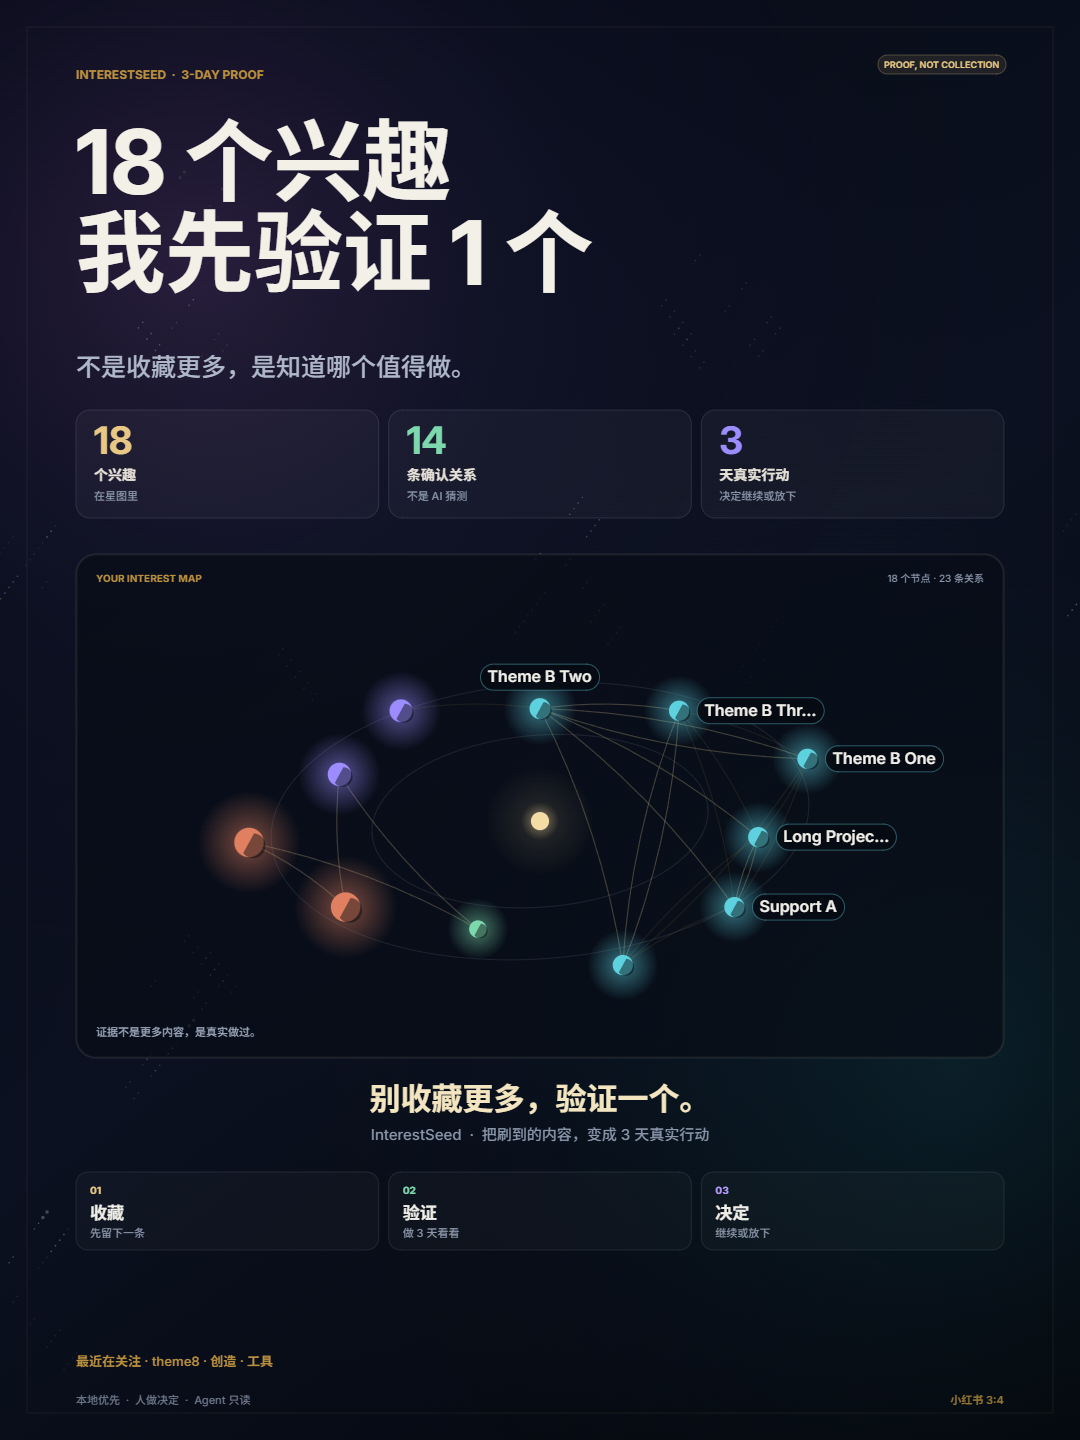
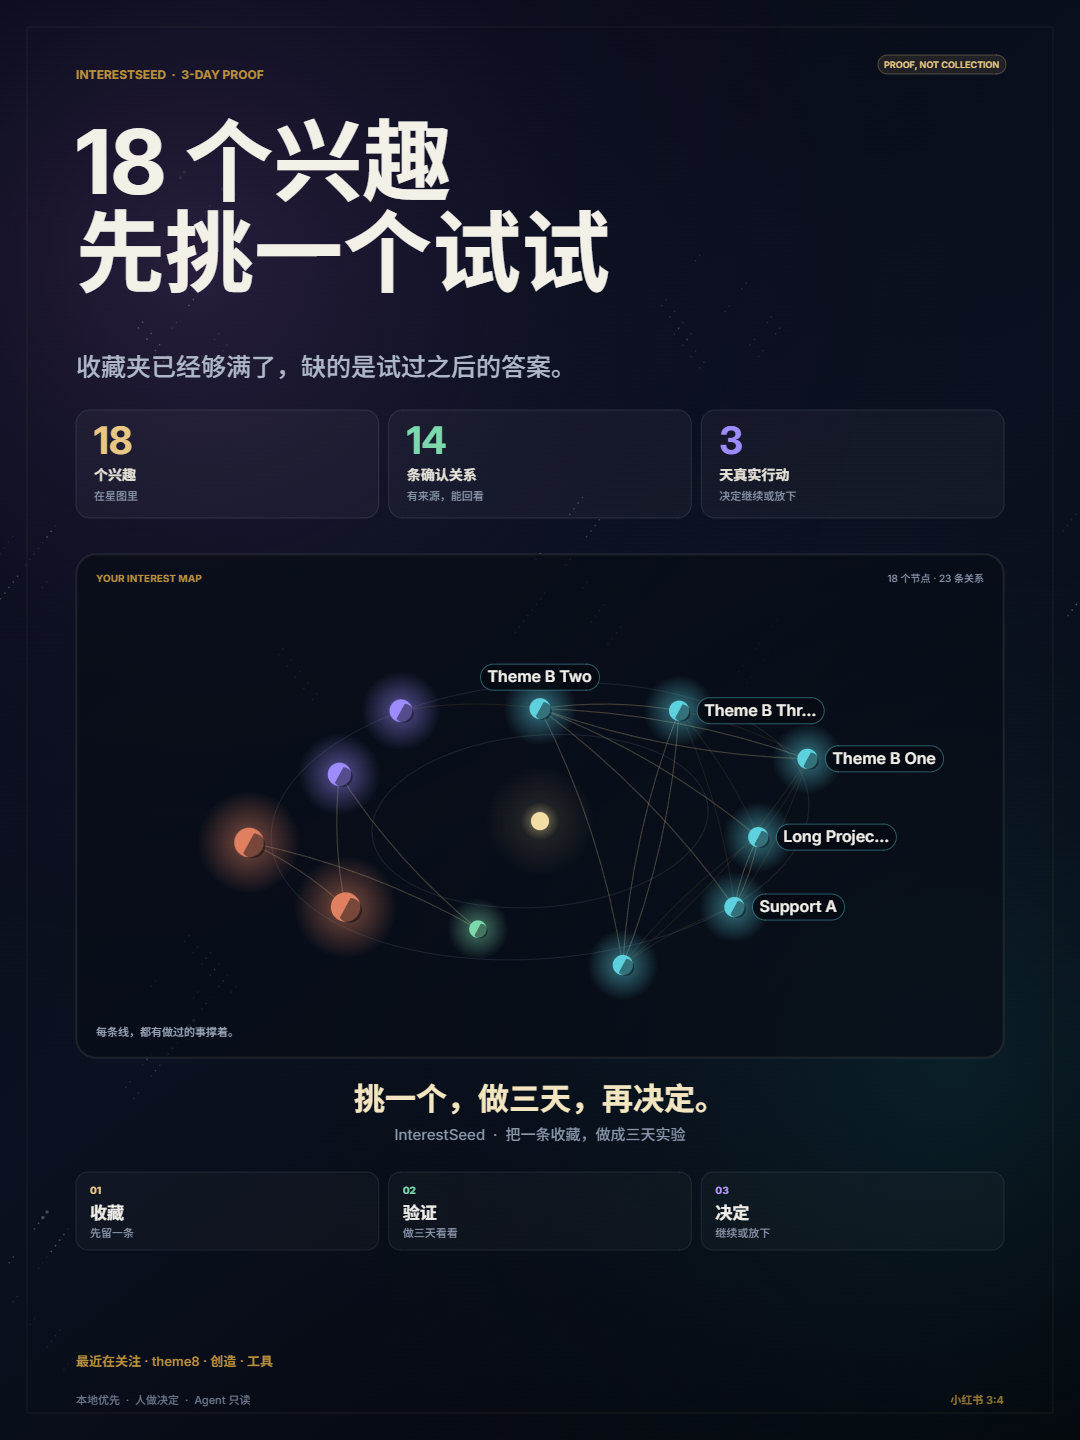
Soften share card copy and refresh card asset

diff --git a/src/ui/ShareCardRenderer.ts b/src/ui/ShareCardRenderer.ts
@@ -80,10 +80,10 @@ function shareTopics(graph: InterestSeedGraph, limit = 3): string[] {
 
 export function buildShareCaption(graph: InterestSeedGraph, preset: SharePreset): string {
   const topics = shareTopics(graph, 4);
-  const topicLine = topics.length > 0 ? `最近在关注：${topics.join('、')}。` : '';
+  const topicLine = topics.length > 0 ? `最近在认真看：${topics.join('、')}。` : '';
   return [
-    `我把 ${graph.nodes.length} 个兴趣，先验证 1 个。`,
-    `星图：${graph.nodes.length} 个节点，${graph.edges.length} 条关系。`,
+    `我最近有 ${graph.nodes.length} 个兴趣，先挑一个试三天。`,
+    `它们连成了一张星图：${graph.nodes.length} 个节点，${graph.edges.length} 条关系。`,
     topicLine,
     `#InterestSeed #兴趣验证 #${preset.id === 'x' ? '个人成长' : '自我探索'}`,
   ]
@@ -406,7 +406,7 @@ function drawGraphPanel(
 
   text(
     ctx,
-    '证据不是更多内容，是真实做过。',
+    '每条线，都有做过的事撑着。',
     rect.x + 20,
     rect.y + rect.h - 22,
     11,
@@ -424,8 +424,8 @@ function drawSteps(
   const gap = 10;
   const cardWidth = (width - gap * 2) / 3;
   const steps = [
-    { number: '01', title: '收藏', detail: '先留下一条', color: '#e8c884' },
-    { number: '02', title: '验证', detail: '做 3 天看看', color: '#7dd9ad' },
+    { number: '01', title: '收藏', detail: '先留一条', color: '#e8c884' },
+    { number: '02', title: '验证', detail: '做三天看看', color: '#7dd9ad' },
     { number: '03', title: '决定', detail: '继续或放下', color: '#b69cff' },
   ];
   steps.forEach((step, index) => {
@@ -477,14 +477,14 @@ function drawPortraitCard(
   );
 
   text(ctx, `${graph.nodes.length} 个兴趣`, margin, titleTop, titleSize, '#f3f0e8', 720);
-  text(ctx, '我先验证 1 个', margin, titleTop + Math.round(titleSize * 1.02), titleSize, '#f3f0e8', 720);
-  text(ctx, '不是收藏更多，是知道哪个值得做。', margin, subTop, 25, '#aeb8c8', 500);
+  text(ctx, '先挑一个试试', margin, titleTop + Math.round(titleSize * 1.02), titleSize, '#f3f0e8', 720);
+  text(ctx, '收藏夹已经够满了，缺的是试过之后的答案。', margin, subTop, 25, '#aeb8c8', 500);
 
   const confirmed = graph.edges.filter((edge) => edge.status === 'confirmed').length;
   const statW = (graphRect.w - 20) / 3;
   const stats = [
     { value: `${graph.nodes.length}`, label: '个兴趣', sub: '在星图里' },
-    { value: `${confirmed}`, label: '条确认关系', sub: '不是 AI 猜测' },
+    { value: `${confirmed}`, label: '条确认关系', sub: '有来源，能回看' },
     { value: '3', label: '天真实行动', sub: '决定继续或放下' },
   ];
   stats.forEach((stat, index) => {
@@ -501,10 +501,10 @@ function drawPortraitCard(
   drawGraphPanel(ctx, graph, graphRect, true);
 
   const quoteY = graphRect.y + graphRect.h + 52;
-  text(ctx, '别收藏更多，验证一个。', width / 2, quoteY, 31, '#f3e5c0', 680, 'center');
+  text(ctx, '挑一个，做三天，再决定。', width / 2, quoteY, 31, '#f3e5c0', 680, 'center');
   text(
     ctx,
-    'InterestSeed  ·  把刷到的内容，变成 3 天真实行动',
+    'InterestSeed  ·  把一条收藏，做成三天实验',
     width / 2,
     quoteY + 30,
     15,
@@ -555,13 +555,13 @@ function drawLandscapeCard(
 
   text(ctx, 'INTERESTSEED  ·  3-DAY PROOF', margin, margin + 8, 12, '#b98f3c', 750);
   text(ctx, `${graph.nodes.length} 个兴趣`, margin, margin + 112, titleSize, '#f3f0e8', 720);
-  text(ctx, '我先验证 1 个', margin, margin + 112 + 66, titleSize, '#f3f0e8', 720);
-  text(ctx, '不是收藏更多，是知道哪个值得做。', margin, margin + 230, 22, '#aeb8c8', 500);
+  text(ctx, '先挑一个试试', margin, margin + 112 + 66, titleSize, '#f3f0e8', 720);
+  text(ctx, '收藏夹已经够满了，缺的是试过之后的答案。', margin, margin + 230, 22, '#aeb8c8', 500);
 
   const confirmed = graph.edges.filter((edge) => edge.status === 'confirmed').length;
   const stats = [
     { value: `${graph.nodes.length}`, label: '个兴趣', sub: '在星图里' },
-    { value: `${confirmed}`, label: '条确认关系', sub: '不是 AI 猜测' },
+    { value: `${confirmed}`, label: '条确认关系', sub: '有来源，能回看' },
     { value: '3', label: '天真实行动', sub: '继续或放下' },
   ];
   stats.forEach((stat, index) => {
@@ -582,8 +582,8 @@ function drawLandscapeCard(
   if (topics.length > 0) {
     text(ctx, `最近在关注 · ${topics.join(' · ')}`, margin, height - 112, 12, '#b98f3c', 600);
   }
-  text(ctx, '别收藏更多，验证一个。', margin, height - 74, 24, '#f3e5c0', 680);
-  text(ctx, 'InterestSeed  ·  把刷到的内容，变成 3 天真实行动', margin, height - 44, 13, '#8995a9', 500);
+  text(ctx, '挑一个，做三天，再决定。', margin, height - 74, 24, '#f3e5c0', 680);
+  text(ctx, 'InterestSeed  ·  把一条收藏，做成三天实验', margin, height - 44, 13, '#8995a9', 500);
   text(ctx, preset.shortLabel, width - margin, height - 30, 11, '#b98f3c', 650, 'right');
 }
 

diff --git a/src/ui/ShareCardModal.ts b/src/ui/ShareCardModal.ts
@@ -52,10 +52,10 @@ export class ShareCardModal extends Modal {
     setIcon(mark, 'share-2');
     const copy = header.createDiv();
     copy.createDiv({ cls: 'interestseed-share-kicker', text: 'MAKE A PROOF CARD' });
-    copy.createEl('h2', { cls: 'interestseed-share-title', text: '把你的兴趣，做成一张会被看完的卡。' });
+    copy.createEl('h2', { cls: 'interestseed-share-title', text: '做一张你自己也愿意发的卡。' });
     copy.createEl('p', {
       cls: 'interestseed-share-lede',
-      text: '不是 UI 截图，是给短视频平台重新排版的证据卡：一个钩子、一组数字、一张星图。',
+      text: '不是截屏。它会重新排一版：一句你想说的话，几个真实数字，一张你的星图。',
     });
 
     const platforms = root.createDiv({ cls: 'interestseed-share-platforms' });
@@ -78,7 +78,7 @@ export class ShareCardModal extends Modal {
 
     const settings = root.createEl('details', { cls: 'interestseed-share-settings' });
     settings.createEl('summary', {
-      text: '分享设置 · 隐藏不想公开的节点',
+      text: '分享前，先把不想公开的藏起来',
     });
     const nodeList = settings.createDiv({ cls: 'interestseed-share-node-list' });
     for (const node of [...this.plugin.store.listNodes()]
@@ -223,7 +223,7 @@ export class ShareCardModal extends Modal {
         new Notice('当前设备不支持系统分享，请使用「下载 PNG」。');
         return;
       }
-      await navigator.share({ files: [file], title: '我的兴趣星图' });
+      await navigator.share({ files: [file], title: '我的兴趣，先试一个' });
       this.setStatus('已打开系统分享');
     } catch (error) {
       if (error instanceof DOMException && error.name === 'AbortError') return;
